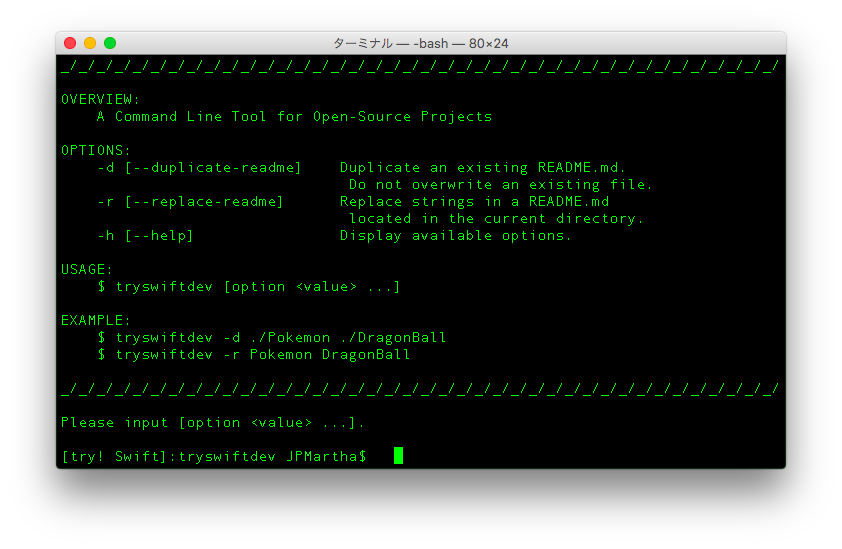
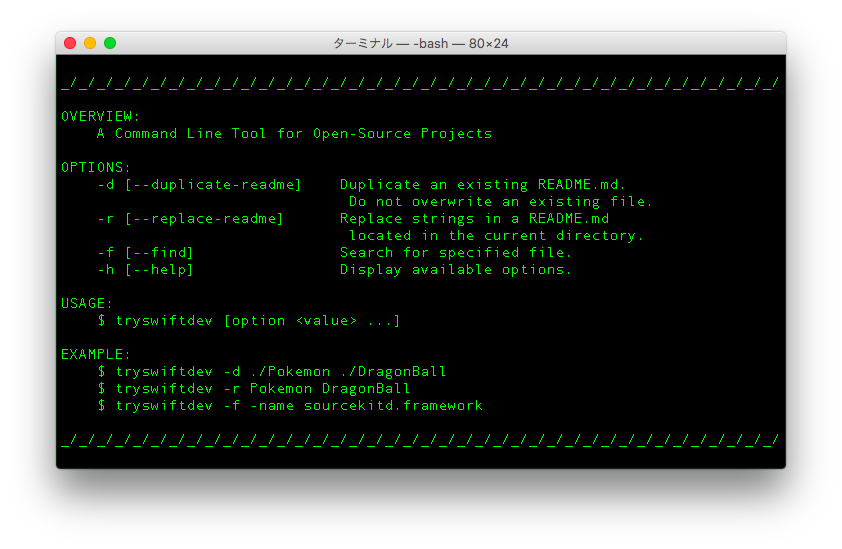
Add `Find It` (#6)

diff --git a/Sources/FindIt.swift b/Sources/FindIt.swift
@@ -1,0 +1,29 @@
+let maybeHere = [
+    "/Applications/Xcode.app/Contents",
+    "/Library/Developer",
+    "/Library/Frameworks",
+]
+
+func findFile(targetOption option: String, targetName name: String) {
+    print("")
+    var existingFilePaths = [String]()
+    maybeHere.forEach {
+        print("Searching... \($0)")
+        guard let outputStrings = executeCommand(argments: ["find", $0, option, name]) else { return }
+        existingFilePaths.append(contentsOf: outputStrings)
+    }
+    displayResult(sources: parseToArray(source: existingFilePaths.reduce("", combine: { $0 + $1 })))
+}
+
+func displayResult(sources: [String]) {
+    print("")
+    guard !sources.isEmpty else {
+        print("Not found.")
+        return
+    }
+    print("Found it!")
+    print("")
+    sources.forEach { print("  - \($0)\n") }
+    print("")
+    print("(Check your `Runpath Search Paths`, `Framework Search Paths`, etc.)")
+}

diff --git a/Sources/Option.swift b/Sources/Option.swift
@@ -1,6 +1,7 @@
 enum Options: String, CustomStringConvertible {
     case DuplicateReadme
     case ReplaceStringsInReadme
+    case FindIt
     case Usage
     
     init?(argment: String) {
@@ -9,6 +10,8 @@ enum Options: String, CustomStringConvertible {
             self = .DuplicateReadme
         case "-r", "--replace-readme":
             self = .ReplaceStringsInReadme
+        case "-f", "--find":
+            self = .FindIt
         case "-h", "--help":
             self = .Usage
         default:
@@ -24,6 +27,8 @@ enum Options: String, CustomStringConvertible {
         case .ReplaceStringsInReadme:
             return "Replace strings in a README.md"
                 + "\n                                located in the current directory."
+        case .FindIt:
+            return "Search for specified file."
         case .Usage:
             return "Display available options."
         }

diff --git a/Sources/Command.swift b/Sources/Command.swift
@@ -20,16 +20,19 @@ func executeCommand(argments args: [String]) -> [String]? {
     
     close(pipe[1])
 
-    let N = 4096
-    var buf = [Int8](repeating: 0, count: N + 1)
+    let bufferSize = 4096
+    var buffer = [Int8](repeating: 0, count: bufferSize + 1)
     
     var n: Int
     var outputStrings = [String]()
+    
+    // FIXME: Return value is not correct value when executing `$ xcodebuild -showBuildSettings`.
     repeat {
-        n = read(pipe[0], &buf, N)
-        if let output = String(validatingUTF8: buf) {
+        n = read(pipe[0], &buffer, bufferSize)
+        if let output = String(validatingUTF8: buffer) {
             outputStrings.append(output)
         }
+        buffer = [Int8](repeating: 0, count: bufferSize)
     } while n > 0
     
     close(pipe[0])

diff --git a/Sources/Usage.swift b/Sources/Usage.swift
@@ -8,6 +8,7 @@ func usage() {
     print("OPTIONS:")
     print("    -d [--duplicate-readme]    \(Options.DuplicateReadme.description)")
     print("    -r [--replace-readme]      \(Options.ReplaceStringsInReadme.description)")
+    print("    -f [--find]                \(Options.FindIt.description)")
     print("    -h [--help]                \(Options.Usage.description)")
     print("")
     print("USAGE:")
@@ -16,6 +17,7 @@ func usage() {
     print("EXAMPLE:")
     print("    $ tryswiftdev -d ./Pokemon ./DragonBall")
     print("    $ tryswiftdev -r Pokemon DragonBall")
+    print("    $ tryswiftdev -f -name sourcekitd.framework")
     print("")
     print("_/_/_/_/_/_/_/_/_/_/_/_/_/_/_/_/_/_/_/_/_/_/_/_/_/_/_/_/_/_/_/_/_/_/_/_/_/_/_/_/")
     print("")

diff --git a/Sources/main.swift b/Sources/main.swift
@@ -22,10 +22,17 @@ do {
         duplicateExistingReadme(existingReadmeDirctoryPath: value1, newReadmeDirectoryPath: value2)
     case .ReplaceStringsInReadme:
         replaceStringsInReadme(source: value1, target: value2)
+    case .FindIt:
+        guard value1 == "-name" else {
+            // TODO: For now, support `-name` only.
+            throw Error.UnsupportedOption
+        }
+        findFile(targetOption: "-name", targetName: value2)
     case .Usage:
         usage()
     }
 } catch let error as Error {
+    print("")
     print(error.description)
 } catch {
     // TODO: Error Handling

diff --git a/Sources/Error.swift b/Sources/Error.swift
@@ -5,6 +5,7 @@
 
 enum Error: ErrorProtocol {
     case InvalidValue
+    case UnsupportedOption
 }
 
 extension Error: CustomStringConvertible {
@@ -12,6 +13,8 @@ extension Error: CustomStringConvertible {
         switch self {
         case .InvalidValue:
             return "Please input [option <value> ...]."
+        case .UnsupportedOption:
+            return "Please input `tryswift -f -name <value>`."
         }
     }
 }

diff --git a/Sources/Parse.swift b/Sources/Parse.swift
@@ -1,0 +1,3 @@
+func parseToArray(source: String) -> [String] {
+    return source.characters.split(separator: "\n").map { String($0) }
+}

diff --git a/Documentation/FindIt.md b/Documentation/FindIt.md
@@ -1,0 +1,70 @@
+# Find It 🔍
+
+### A Work In Progress 👷
+
+For now, support `$ tryswiftdev -f -name <value>` only. 🙏
+
+<br />
+
+<img src="./Images/FindIt.png">
+
+<br />
+
+## Example
+
+### Building your project _Pokemon_ with Xcode
+
+```
+ld: framework not found sourcekitd
+clang: error: linker command failed with exit code 1 (use -v to see invocation)
+```
+
+### 🤔
+
+<br />
+
+### Running your project _Pokemon_ with Xcode
+
+```
+dyld: Library not loaded: @rpath/sourcekitd.framework/Versions/A/sourcekitd
+  Referenced from: /usr/local/bin/pokemon
+  Reason: image not found
+```
+
+### 🙄
+
+<br />
+
+### Finding it with _tryswiftdev_
+
+```bash
+$ tryswiftdev -f -name sourcekitd.framework
+```
+
+```
+Searching... /Applications/Xcode.app/Contents
+Searching... /Library/Developer
+Searching... /Library/Frameworks
+
+Found it!
+
+  - /Applications/Xcode.app/Contents/Developer/Toolchains/XcodeDefault.xctoolchain/usr/lib/sourcekitd.framework
+
+  - /Library/Developer/Toolchains/swift-2.2-SNAPSHOT-2016-03-01-a.xctoolchain/usr/lib/sourcekitd.framework
+
+  - /Library/Developer/Toolchains/swift-DEVELOPMENT-SNAPSHOT-2016-04-25-a.xctoolchain/usr/lib/sourcekitd.framework
+
+
+(Check your `Runpath Search Paths`, `Framework Search Paths`, etc.)
+```
+
+### 😇
+
+<br />
+
+## ToDo
+
+- [ ] Error Handling
+- [ ] Tests
+
+etc.

diff --git a/README.md b/README.md
@@ -43,8 +43,11 @@ $ tryswiftdev
                             Do not overwrite an existing file.
 -r [--replace-readme]      Replace strings in a README.md
                             located in the current directory.
+-f [--find]                Search for specified file. ✨
 -h [--help]                Display available options.
 ```
+
+For more information about the `-f` option, please see [Find It](./Documentation/FindIt.md).
 
 <br />
 
@@ -94,9 +97,19 @@ HomeDirectory
 
 <br />
 
+### Finding It
+
+```bash
+$ tryswiftdev -f -name sourcekitd.framework
+```
+
+For more information, please see [Find It](./Documentation/FindIt.md).
+
+<br />
+
 ## Availability
 
-Recommend Swift 3.0-dev.
+Swift 3.0-dev
 
 <br />
 
